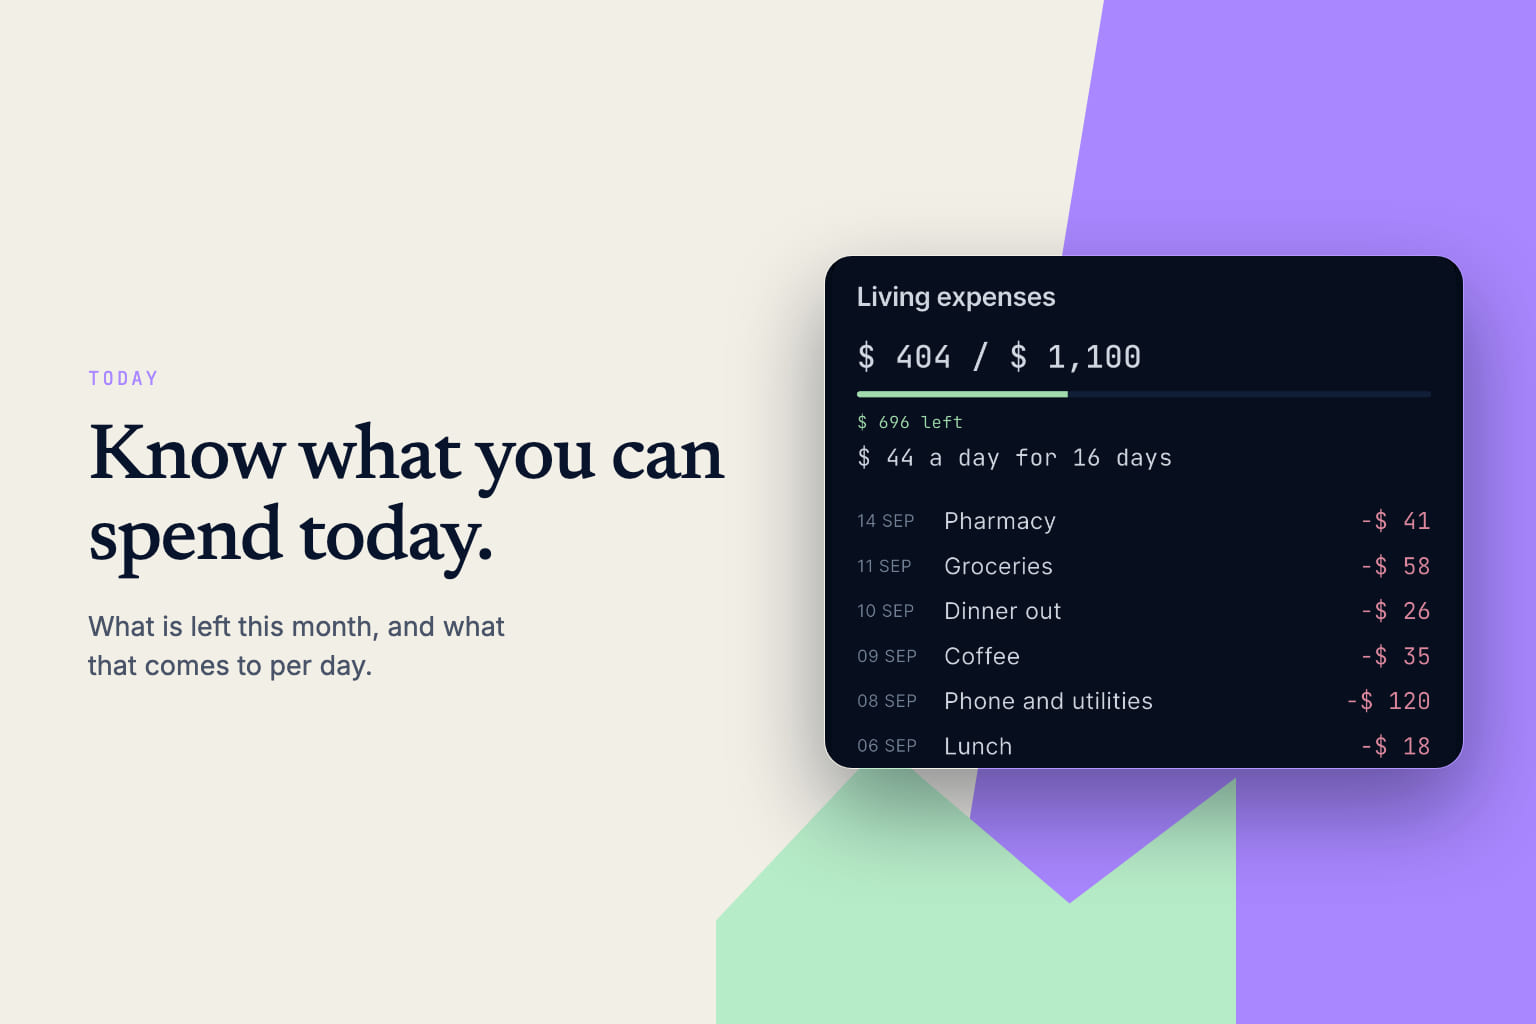
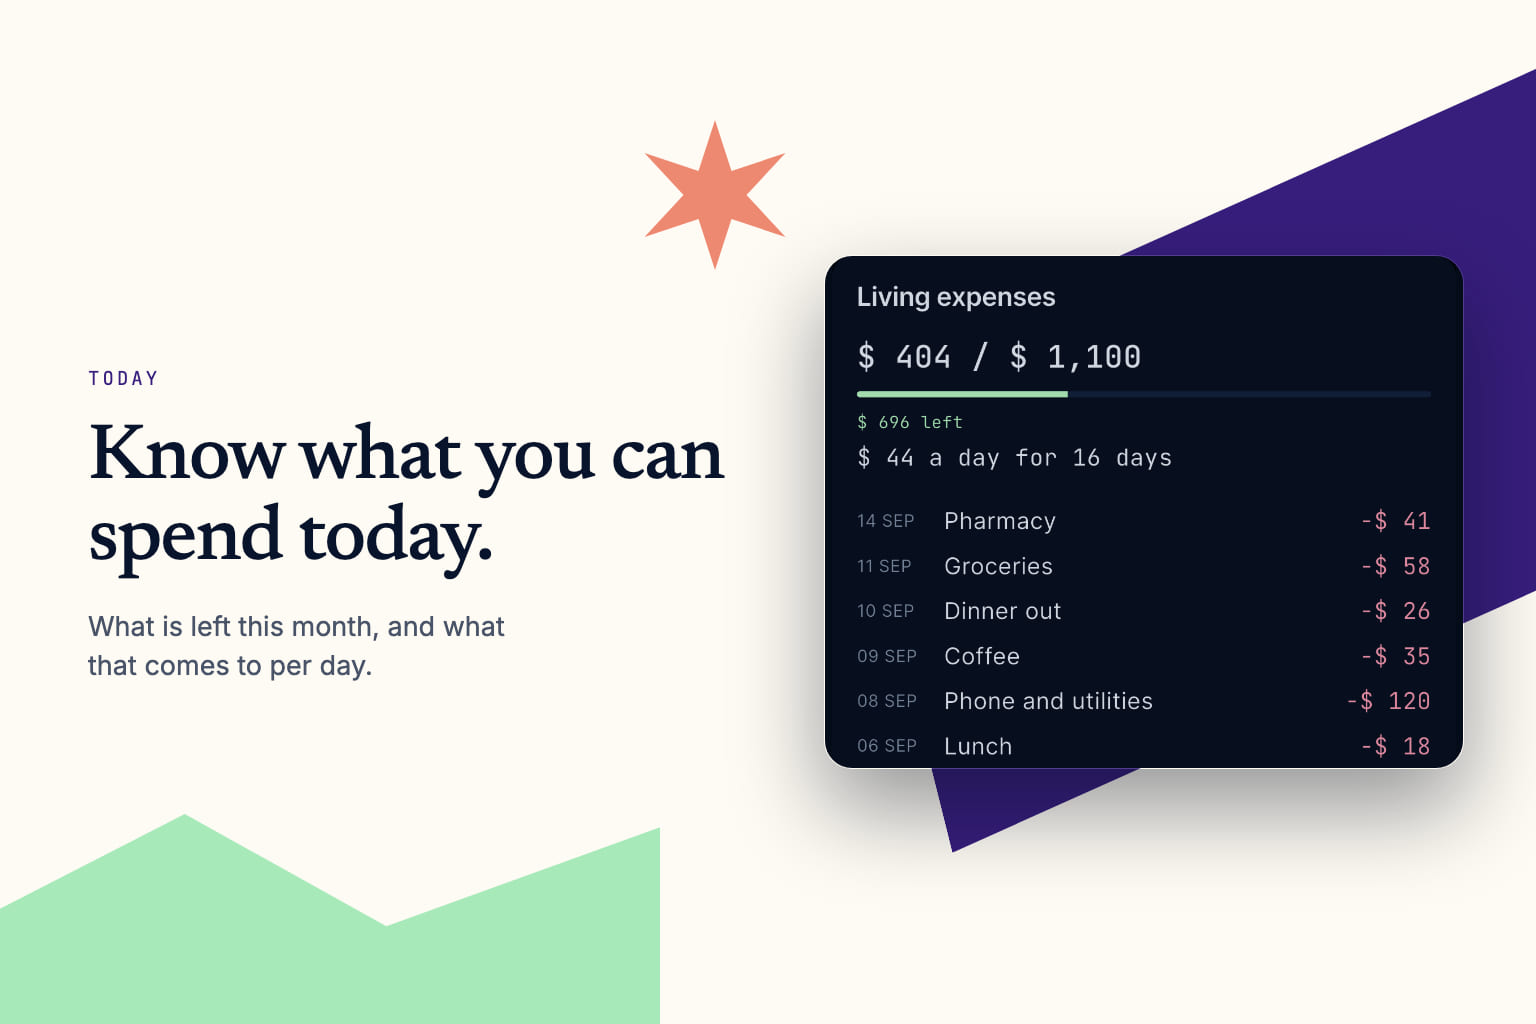
chore(marketing): move the gallery onto the poster palette, and add the commitments screen
Warm cream, the deep purple plate and the mint zigzag from the Shipaton
thumbnail, with the coral star, so the gallery and the thumbnail look like one
set rather than two.

New slide for loans and subscriptions. They sit next to each other below the
fold, so one frame carries both. It is a plain screenshot with the caption band
cropped off, because the gallery writes its own captions.

The seeded subscriptions were named iCloud and Spotify. Real service names are
third-party trademarks and the rules forbid them on a store screenshot or in
the demo video, so they are Cloud storage and Music now.

Claude-Session: https://claude.ai/code/session_01LzA2Gog4pmDHuvfaKeYrQX

diff --git a/app/integration_test/screenshots_test.dart b/app/integration_test/screenshots_test.dart
@@ -19,6 +19,7 @@ import 'package:flutter/foundation.dart';
 import 'package:flutter/material.dart';
 import 'package:flutter_test/flutter_test.dart';
 import 'package:integration_test/integration_test.dart';
+import 'package:presentation/features/subscriptions/subscriptions_panel.dart';
 import 'package:presentation/router/page_indicator.dart';
 import 'package:shared_preferences/shared_preferences.dart';
 
@@ -76,6 +77,28 @@ void main() {
       ),
     );
 
+    // Loans and subscriptions sit next to each other below the fold, so one
+    // frame carries both.
+    await tester.scrollUntilVisible(
+      find.byType(SubscriptionsPanel),
+      400,
+      scrollable: find.byType(Scrollable).first,
+    );
+    await pumpRealTime(tester, seconds: 1);
+    await capture(
+      '05-commitments',
+      const _Caption(
+        'What is already decided',
+        'Loan payments and subscriptions, counted every month.',
+      ),
+    );
+
+    await tester.scrollUntilVisible(
+      find.text('LIVING EXPENSES'),
+      -400,
+      scrollable: find.byType(Scrollable).first,
+    );
+    await pumpRealTime(tester, seconds: 1);
     await tester.tap(find.text('LIVING EXPENSES'));
     await pumpRealTime(tester, seconds: 2);
     await capture(
@@ -215,9 +238,12 @@ Future<void> _seed(AppDatabase database) async {
     await transactions.add(entry);
   }
 
+  // Generic names on purpose. A real service name on a store screenshot or in
+  // the demo video is a third-party trademark, which both Apple and the
+  // Shipaton rules forbid.
   final subs = <(String, double, BillingCycle)>[
-    ('iCloud', 2.99, BillingCycle.monthly),
-    ('Spotify', 10.99, BillingCycle.monthly),
+    ('Cloud storage', 2.99, BillingCycle.monthly),
+    ('Music', 10.99, BillingCycle.monthly),
     ('Gym', 29.00, BillingCycle.monthly),
   ];
   for (final (index, sub) in subs.indexed) {
